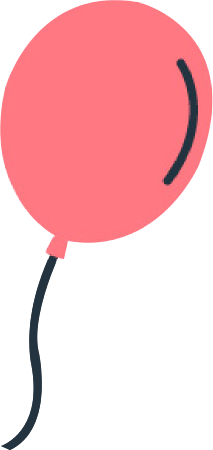
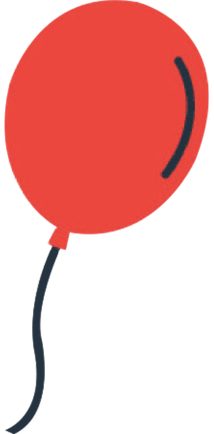
changing color and sticker

diff --git a/frame code/index.html b/frame code/index.html
@@ -118,7 +118,7 @@
             <img src="./images/decorate.png" alt="" width="100">
         </div>
         <div class="smiley__icon">
-            <img src="./images/smiley_icon.png" alt="" width="100">
+            <img src="./images/smiley_icon.png" alt="" width="125">
         </div>
 
 

diff --git a/frame code/style.css b/frame code/style.css
@@ -450,7 +450,7 @@ body {
 .smiley__icon{
     position: absolute;
     bottom: 195px;
-    left: 54%;
+    left: 60%;
     transform: scale(0);
     animation: scaleCricle 3s 15s forwards ease-in-out;
 }
